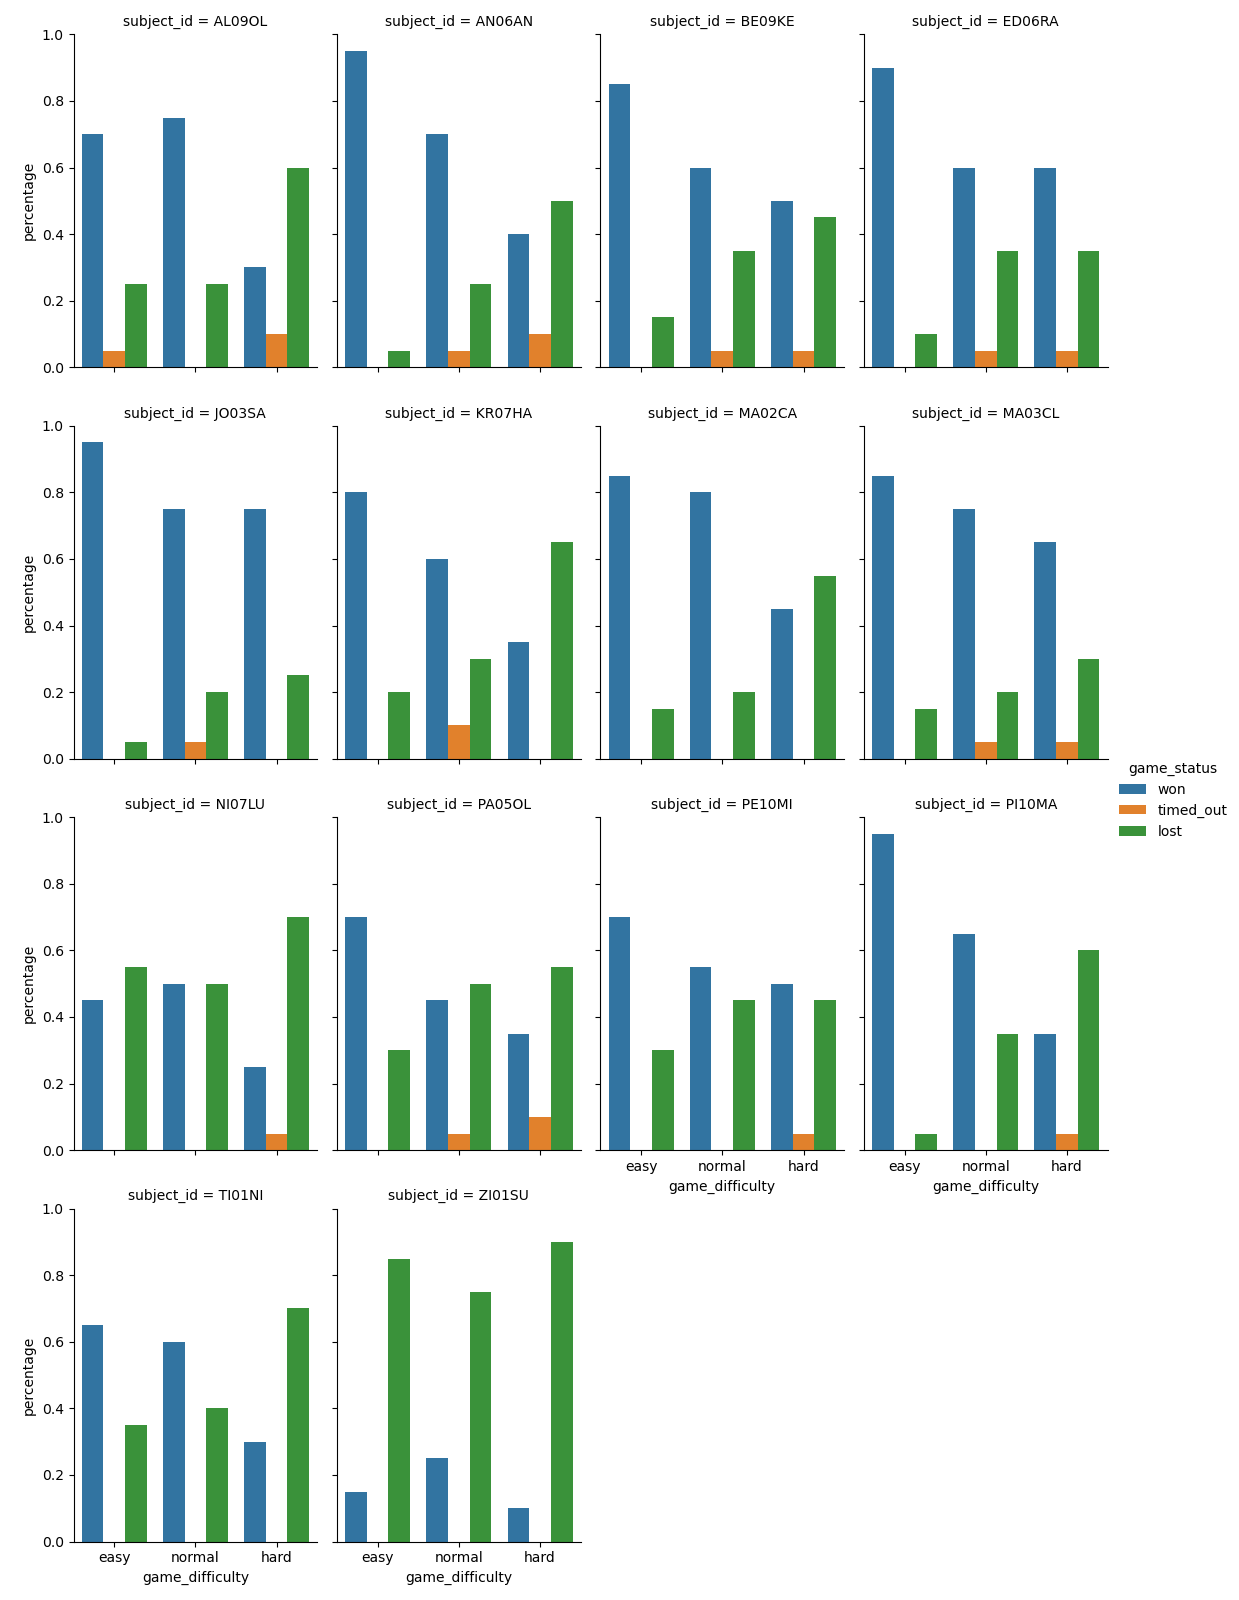
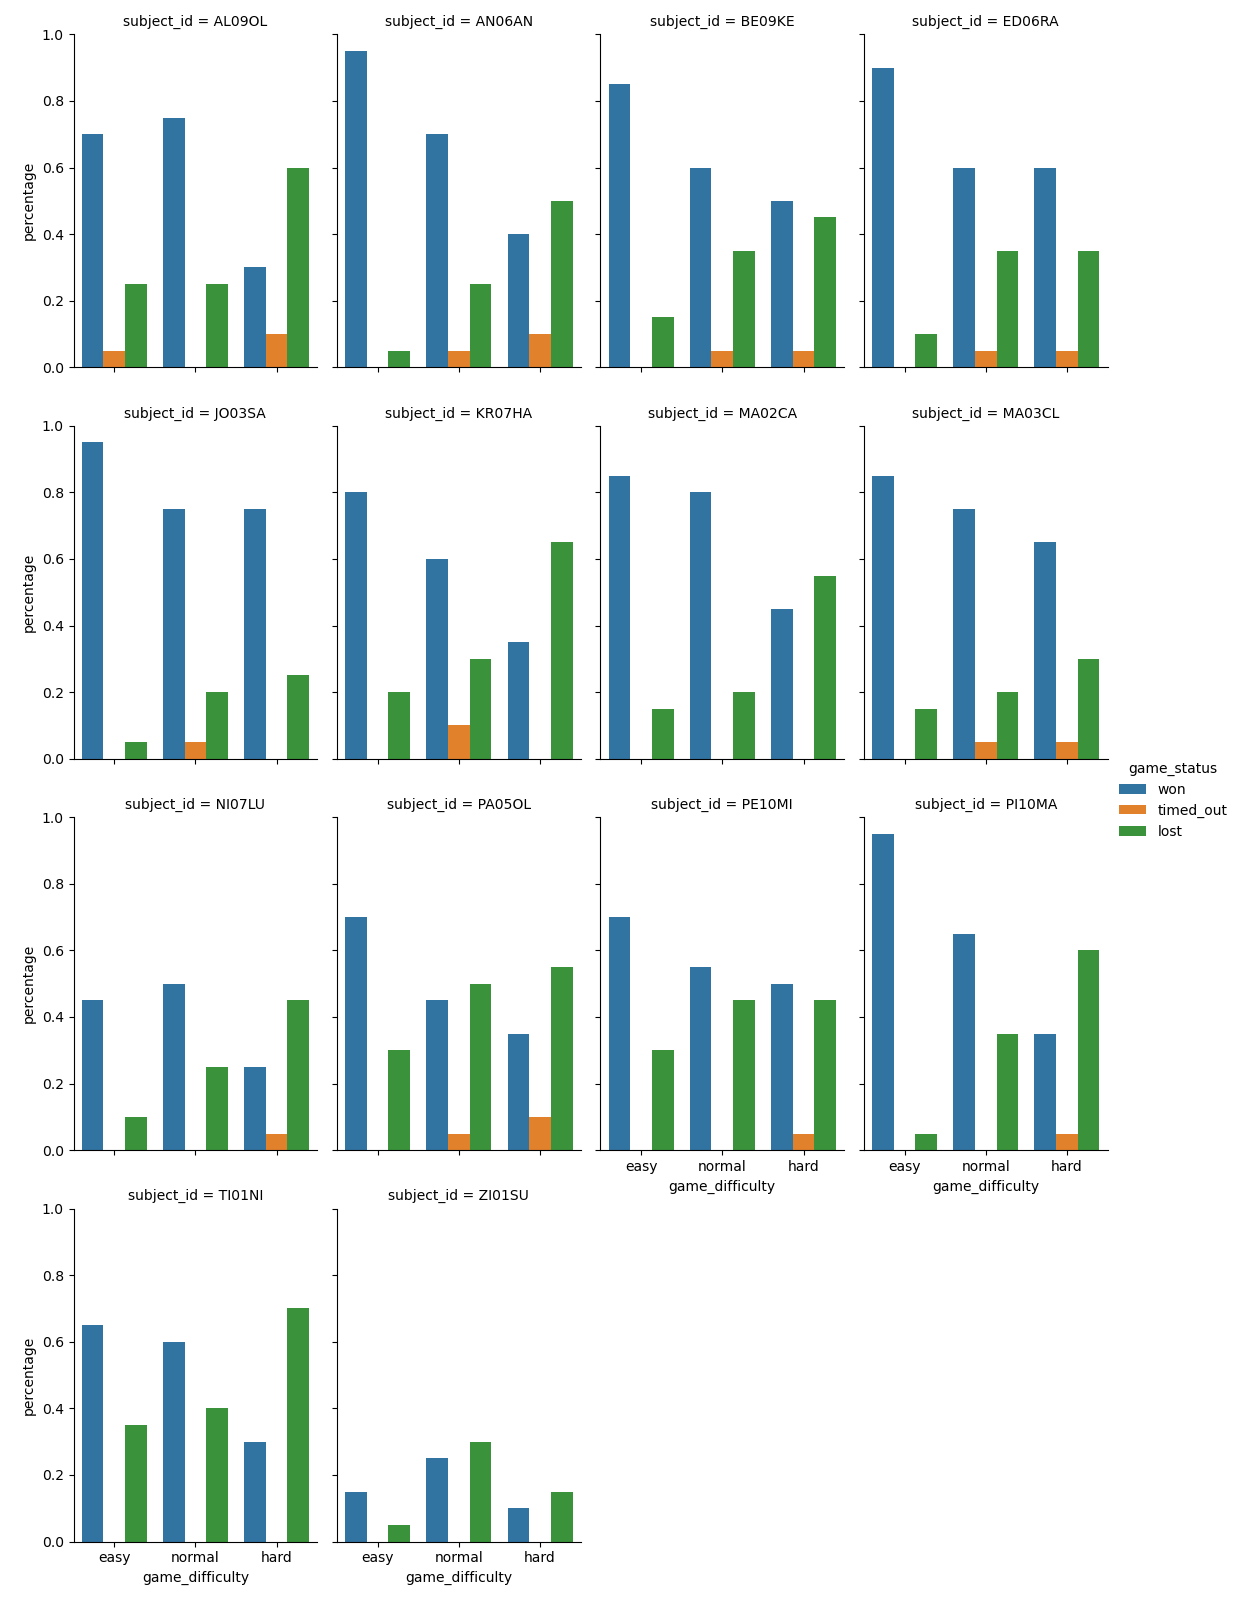
fix in loading data
missing data for levels of some subjects is now dropped in df

diff --git a/analysis/data_utils.py b/analysis/data_utils.py
@@ -23,7 +23,9 @@ def read_data():
 
 
 def read_subject_data(subject_id):
-    df = pd.read_csv(f'../data/{subject_id}_compressed.gzip', compression='gzip')
+    df = pd.read_csv(f'../data/compressed_data/{subject_id}_compressed.gzip', compression='gzip')
+    df.drop(df.columns[0], axis=1, inplace=True)
+    df.dropna(inplace=True)
     return df
 
 
